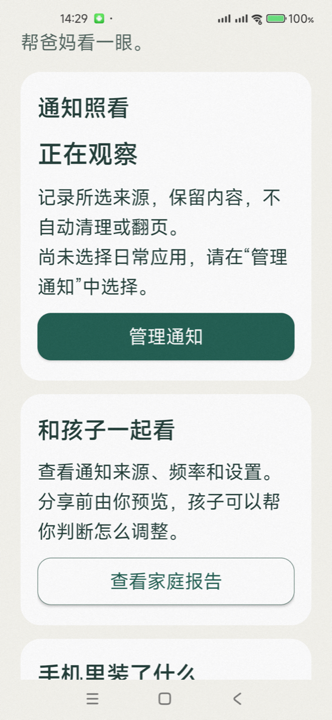
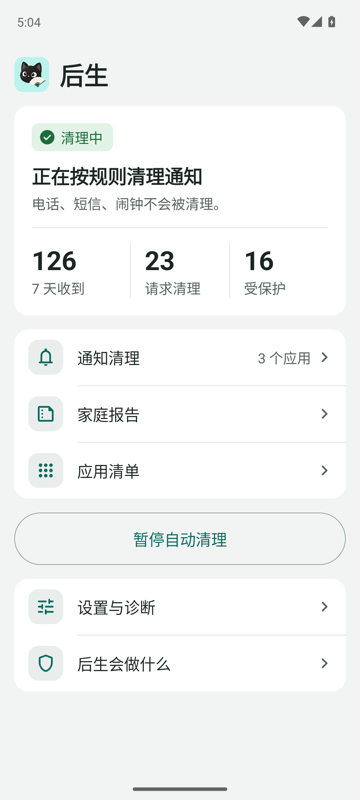
文档与 README 截图同步新界面

diff --git a/docs/product-design.md b/docs/product-design.md
@@ -1,19 +1,19 @@
 # 后生家庭版界面
 
-2026-10-03，家庭版首页、通知管理、家庭报告、应用清单与设置诊断已实现，家庭版真机验收见 [验证记录](device-validation.md)。随后已接入调试版 Laya 本机模型管线，仅用于独立验证场，详见 [模型验证](laya-validation.md)。真实应用信息流读取和自动筛选尚未开放。
+2026-10-03，家庭版首页、通知清理、家庭报告、应用清单、设置与诊断已实现，同日按 [界面规范](ui-spec.md) 重写界面，家庭版真机验收见 [验证记录](device-validation.md)。随后已接入调试版 Laya 本机模型管线，仅用于独立验证场，详见 [模型验证](laya-validation.md)。真实应用信息流读取和自动筛选尚未开放。
 
 ## 依据与取舍
 
 已阅读用户指定的 [UI UX Pro Max](https://github.com/nextlevelbuilder/ui-ux-pro-max-skill) 技能，运行 `senior mobile companion accessible calm --design-system`。其适老高对比建议适用，但营销落地页结构、网页字体和转化按钮不适用。进一步以 `senior accessible mobile utility --domain product` 核实命中 Senior Care/Elderly，采用大字、暖中性色、简明导航。项目使用 Android 原生 Views，技能没有该栈专属指引，不套用 Compose 或 Web 实现。
 
-颜色集中在 colors.xml：暖白背景、白色卡片、深青绿文字与主按钮。主要正文 18sp，通知和报告页部分辅助说明为 16sp，卡片标题 22sp，页面标题 32sp。系统字体随系统字号缩放，不下载字体，不引入图标或动画依赖。按钮最低 56dp，至少 8dp 上下外间距，原生按钮语义及水波纹反馈。所有状态有文字说明，不只用颜色表达。
+颜色、字号、尺寸、状态词表和文案规则以 [界面规范](ui-spec.md) 为准，颜色集中在 colors.xml，组件集中在 ProductUi.kt。图标为 Material Symbols Rounded 转成的 VectorDrawable，由 scripts/material-icon.sh 生成，不引入图标或动画依赖。
 
-本版固定浅色主题，并关闭系统强制反色。未实现独立深色主题，不能宣称已验证深色适配。页面按系统栏与刘海 Insets 留白，长内容纵向滚动，没有固定高度卡片。应用列表由原生 ListView 回收行，避免一次创建 500 个控件。
+本版固定浅色主题，并关闭系统强制反色。未实现独立深色主题，不能宣称已验证深色适配。页面按系统栏与刘海 Insets 留白，长内容纵向滚动，行只设最小高度。应用列表由原生 ListView 回收行，避免一次创建 500 个控件。
 
 ## 页面分工
 
-- 首页：通知真实状态、管理通知、家庭报告、应用清单、暂停处理和设置入口。显示日常来源选择数量，服务状态通过事件通知与返回页面时刷新，没有轮询。没有无障碍授权弹窗，没有模拟 AI 统计。
-- 通知管理：按需进入系统授权，分别显示尚未授权、已授权未连接、观察和执行。用户可以选择来源、按应用始终放行、保存关键词、打开对应系统通知设置。通知执行意愿保存在本机，连接中断不清除选择，首页暂停会保存关闭状态。观察期间仍处理所选来源的回调并记录统计，暂停自动处理不等于关闭观察。
+- 首页：通知状态面板与最近 7 天次数，通知清理、家庭报告、应用清单入口，清理中才显示暂停，另有设置与诊断和“后生会做什么”。显示日常来源选择数量，服务状态通过事件通知与返回页面时刷新，没有轮询。没有无障碍授权弹窗，没有模拟 AI 统计。
+- 通知清理：按需进入系统授权，分别显示尚未授权、已授权未连接、观察和执行。用户可以选择来源、按应用始终放行、保存关键词、打开对应系统通知设置。通知执行意愿保存在本机，连接中断不清除选择，首页暂停会保存关闭状态。观察期间仍处理所选来源的回调并记录统计，暂停自动处理不等于关闭观察。
 - 家庭报告：可选最近 7 天或 30 天，先预览再复制或系统分享。显示来源次数、命中、清理请求、受保护次数、当前规则与独立的始终放行名单，以及有限连接记录。用户主动勾选后才读取完整可见应用清单并标记近 30 天安装。生成失败可重试，清空历史前二次确认，清空与服务写入经过同一队列。没有自动发送或远程修改父母手机的能力。
 - 应用清单：主动查询，后台执行 PackageManager 读取，显示加载与失败提示。近 30 天按系统首次安装时间计算。选中应用后说明并打开系统详情，后生不自动卸载。清单只在页面内存保留，旋转可恢复，进程退出后不保存。
 - 设置与诊断：原有验证场、来源配置、截图及有限诊断记录保留在独立页面。仅供家人协助和工程验证，不成为首页日常流程。

diff --git a/docs/ui-spec.md b/docs/ui-spec.md
@@ -1,6 +1,6 @@
 # 后生界面规范
 
-2026-10-03 草案，待确认后替换 [界面设计](product-design.md) 中的视觉段落。适用于原生 Android View 实现。
+2026-10-03 确认并实现。组件在 `ProductUi.kt`，颜色在 `colors.xml`。页面分工见 [界面设计](product-design.md)。
 
 ## 依据
 
@@ -25,7 +25,7 @@
 |---|---|---|---|
 | 页面标题 | 顶栏 title 22 | 通知清理 | 口号、副标题 |
 | 状态 | 状态标签（图标 + 词 + 底色）+ 一句 title | 清理中 / 正在按规则清理通知 | 只用颜色，用正文段落描述状态 |
-| 数值 | number 30 + support 标签 | 128 · 7 天收到 | 把数字写进句子里 |
+| 数值 | number 30 + support 标签 | 128 · 7 天收到 | 把数字写进句子里，把清理请求写成“已清理” |
 | 分区 | section 16 主色 | 管理的应用 | 用卡片标题代替 |
 | 设置项 | 行：label 18 + support 16 + 开关 | 按规则清理通知 / 关闭时只记录次数 | 开关加“保存”按钮 |
 | 导航 | 行：label 18 + 当前值 + › | 应用清单 · 新装 2 个 | 用大按钮做页面入口 |
@@ -39,7 +39,7 @@
 
 | 状态 | 标签 | 图标 | 颜色 | 标题 | 首页按钮 |
 |---|---|---|---|---|---|
-| 未授权 | 未授权 | error | warning | 还不能管理通知 | 去系统设置允许 |
+| 未授权 | 未授权 | error | warning | 还不能清理通知 | 去系统设置允许 |
 | 已授权未连接 | 已断开 | link_off | error | 通知服务已断开 | 重新连接 |
 | 观察 | 只记录 | visibility | neutral | 只记录，不清理 | 无 |
 | 执行 | 清理中 | check_circle | ok | 正在按规则清理通知 | 暂停自动清理（描边） |
@@ -98,11 +98,12 @@
 ## 组件
 
 1. 按钮层级：实心 > tonal > 描边 > 文字。实心每屏最多 1 个。破坏性用红色文字按钮，单独成组放页底。
-2. 分段选择：用于 7 天 / 30 天这种二选一。选中项加 ✓，不只靠底色。
+2. 分段选择：用于 7 天 / 30 天这种二选一，选项文字尽量短。选中项加 ✓，不只靠底色。
 3. 开关：拨动即生效，不配保存按钮。关闭的行文字变灰，副文本写明“未管理”。
 4. 对话框：只用于授权说明和破坏性确认。标题写发生什么，按钮写动作（“清空记录”/“保留”），不用“确定/是/否”。取消在左，确认在右。
 5. 空状态：一句说明 + 一个能做的事。示例：“还没有记录。选好应用后开始统计。”
-6. 图标：Material Symbols Rounded，导出为 VectorDrawable 放进 res，不加依赖。图标不单独表意，旁边必须有文字。
+6. 图标：Material Symbols Rounded，用 `scripts/material-icon.sh` 导出为 VectorDrawable，不加依赖。图标不单独表意，旁边必须有文字。按钮不带图标。
+7. 大字号：系统字号超过 130% 时，行内的值移到标签下方，数值区改为上下排列，避免标签按字断行。
 
 ## 文案
 

diff --git a/README.md b/README.md
@@ -25,7 +25,7 @@
 </p>
 
 <p align="center">
-  <img src="docs/images/home.png" width="300" alt="后生首页：通知照看、和孩子一起看、手机里装了什么">
+  <img src="docs/images/home.png" width="300" alt="后生首页：通知清理状态、最近 7 天次数和功能入口">
 </p>
 
 爸妈的手机每天响几十次，哪些是推广、哪些是正事，他们分不清，你又不在身边。后生先帮你们**看清**通知从哪来、有多频繁，再由爸妈自己决定清理什么。孩子只看报告、给建议，不远程控制。
@@ -38,7 +38,7 @@
 | 想少看推广，又怕漏掉正事 | 自设清理关键词，可让某个来源始终放行。电话、消息、闹钟和常驻通知始终保留 |
 | 孩子想帮忙，但不在身边 | 爸妈预览后复制或分享家庭报告，孩子据此建议怎么调 |
 | 不知道手机最近装了什么 | 查看有桌面入口的应用，标出近 30 天新装的，可跳到系统详情由本人决定是否卸载 |
-| 想马上停下 | 首页一键暂停所有自动处理，记录保留 |
+| 想马上停下 | 首页点“暂停自动清理”，记录保留 |
 
 > [!NOTE]
 > 抖音、快手、小红书的信息流筛选**尚未开放**。AI 判断与自动下滑只在独立验证场跑通，见 [模型管线验证](docs/laya-validation.md)。
@@ -48,8 +48,8 @@
 需要 Android 11 或以上。
 
 1. 打开 [发行版页面](https://github.com/PathGao/housheng/releases)，下载 `housheng-<版本>.apk`，可用同页的 `SHA256SUMS` 校验。
-2. 打开后生，进入“管理通知”，按提示授予通知使用权。
-3. 勾选要管理的应用。先保持“按规则清理通知”关闭，观察几天次数。
+2. 打开后生，在首页点“去系统设置允许”，授予通知使用权。
+3. 在“通知清理”里选要管理的应用。先保持“按规则清理通知”关闭，观察几天次数。
 4. 和家人一起看“家庭报告”，定好关键词和放行来源，再开启清理。
 
 日常使用**不需要无障碍权限**。清理发生在通知到达之后，已经响过的声音或弹过的横幅仍会出现。想彻底关掉某个应用的通知，用后生里的“系统通知设置”入口。
